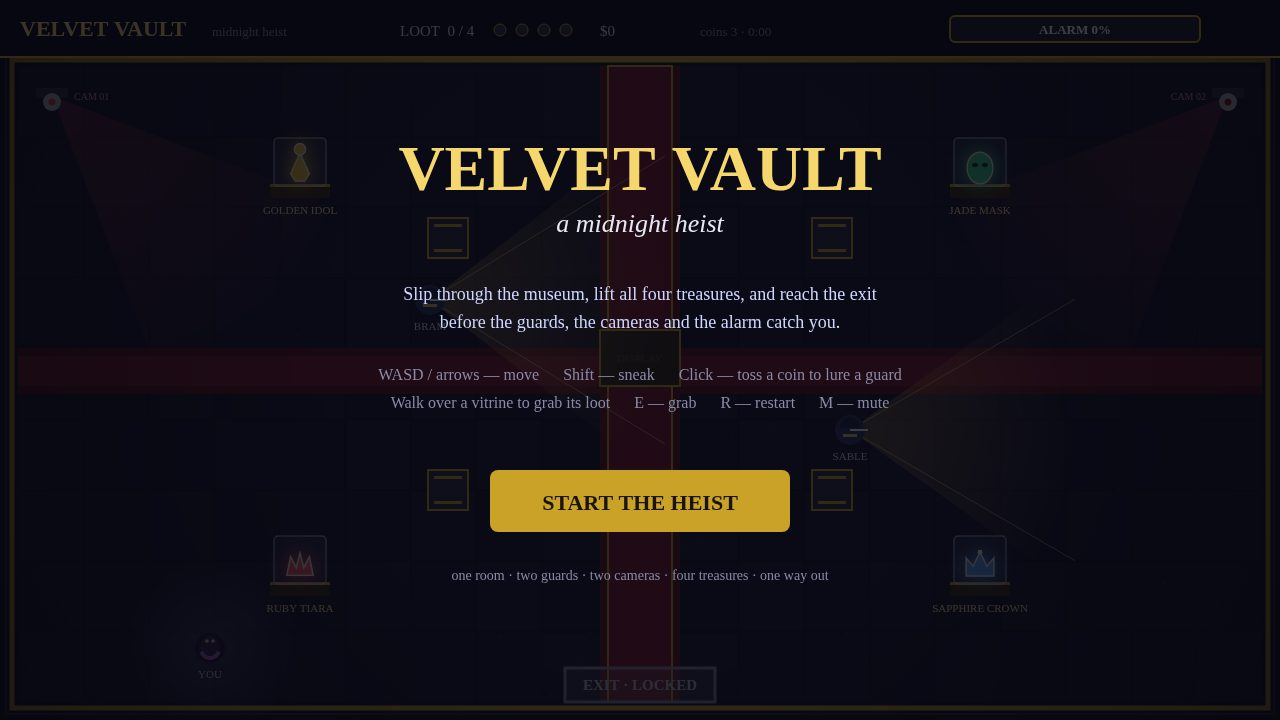
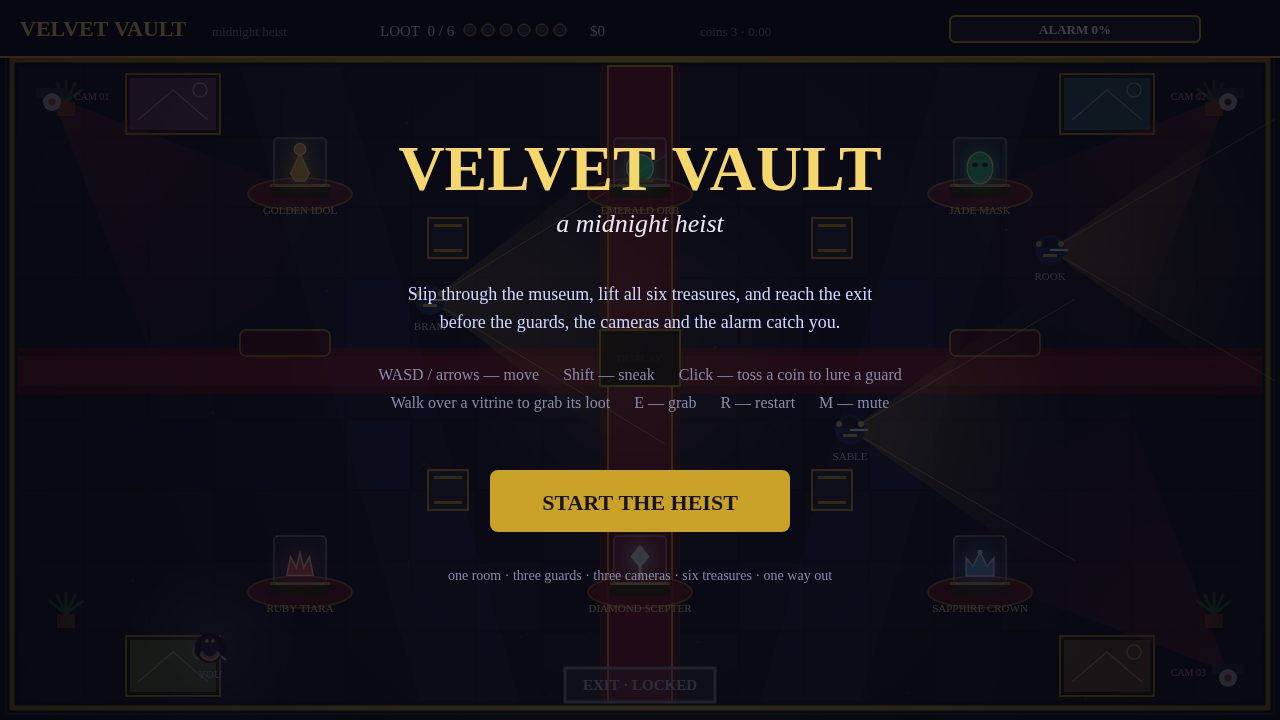
v2: six treasures, three guards, three cameras, richer room, dramatic cover pose

diff --git a/game/src/render.js b/game/src/render.js
@@ -2,7 +2,7 @@
 // frame: marble floor, gold trim, red carpet, glowing vitrines, vision
 // cones, the thief, the guards, the cameras and the HUD with its alarm meter.
 
-import { VIEW, HUD_H, ROOM, BLOCKERS, LOOT, EXIT, GUARDS, mulberry32 } from './config.js';
+import { VIEW, HUD_H, ROOM, BLOCKERS, LOOT, EXIT, GUARDS, PAINTINGS, PLANTS, BENCHES, mulberry32 } from './config.js';
 import { lootTotal, exitOpen } from './world.js';
 
 export const BTN_START = { x: 490, y: 470, w: 300, h: 62 };
@@ -41,7 +41,7 @@ function roundRect(ctx, x, y, w, h, r) {
   ctx.closePath();
 }
 
-function drawFloor(ctx) {
+function drawFloor(ctx, t) {
   ctx.fillStyle = '#141428';
   ctx.fillRect(0, 0, VIEW.w, VIEW.h);
   // Marble tiles.
@@ -66,6 +66,67 @@ function drawFloor(ctx) {
   ctx.strokeStyle = '#c9a227';
   ctx.lineWidth = 2;
   ctx.strokeRect(608, ROOM.y, 64, ROOM.h);
+  // Round rugs under the vitrines.
+  for (const l of LOOT) {
+    ctx.fillStyle = 'rgba(122,26,44,0.85)';
+    ctx.beginPath(); ctx.ellipse(l.x, l.y + 26, 52, 16, 0, 0, Math.PI * 2); ctx.fill();
+    ctx.strokeStyle = 'rgba(201,162,39,0.7)';
+    ctx.lineWidth = 1.5;
+    ctx.beginPath(); ctx.ellipse(l.x, l.y + 26, 52, 16, 0, 0, Math.PI * 2); ctx.stroke();
+  }
+  // Framed paintings on the walls.
+  for (const p of PAINTINGS) {
+    ctx.fillStyle = '#2a2118';
+    ctx.fillRect(p.x - 4, p.y - 4, p.w + 8, p.h + 8);
+    ctx.strokeStyle = '#c9a227';
+    ctx.lineWidth = 2;
+    ctx.strokeRect(p.x - 4, p.y - 4, p.w + 8, p.h + 8);
+    ctx.fillStyle = p.hue;
+    ctx.fillRect(p.x, p.y, p.w, p.h);
+    ctx.strokeStyle = 'rgba(255,248,220,0.65)';
+    ctx.lineWidth = 1.5;
+    ctx.beginPath(); ctx.moveTo(p.x + 8, p.y + p.h - 10); ctx.lineTo(p.x + p.w / 2, p.y + 12); ctx.lineTo(p.x + p.w - 8, p.y + p.h - 10); ctx.stroke();
+    ctx.beginPath(); ctx.arc(p.x + p.w - 16, p.y + 12, 7, 0, Math.PI * 2); ctx.stroke();
+  }
+  // Potted palms in the corners.
+  for (const pl of PLANTS) {
+    ctx.fillStyle = '#7a4a2a';
+    ctx.fillRect(pl.x - 9, pl.y - 6, 18, 14);
+    ctx.strokeStyle = '#2f7a3a';
+    ctx.lineWidth = 3;
+    for (let i = 0; i < 5; i++) {
+      const a = -Math.PI / 2 + (i - 2) * 0.45;
+      ctx.beginPath(); ctx.moveTo(pl.x, pl.y - 6); ctx.lineTo(pl.x + Math.cos(a) * 22, pl.y - 6 + Math.sin(a) * 22); ctx.stroke();
+    }
+  }
+  // Velvet benches.
+  for (const b of BENCHES) {
+    ctx.fillStyle = '#4a1220';
+    roundRect(ctx, b.x, b.y, b.w, b.h, 6); ctx.fill();
+    ctx.strokeStyle = '#c9a227';
+    ctx.lineWidth = 1.5;
+    roundRect(ctx, b.x, b.y, b.w, b.h, 6); ctx.stroke();
+  }
+  // Moonbeams slanting in from the high windows.
+  ctx.fillStyle = 'rgba(150,180,255,0.06)';
+  ctx.beginPath(); ctx.moveTo(240, ROOM.y); ctx.lineTo(340, ROOM.y); ctx.lineTo(520, ROOM.y + ROOM.h); ctx.lineTo(420, ROOM.y + ROOM.h); ctx.closePath(); ctx.fill();
+  ctx.beginPath(); ctx.moveTo(940, ROOM.y); ctx.lineTo(1040, ROOM.y); ctx.lineTo(860, ROOM.y + ROOM.h); ctx.lineTo(760, ROOM.y + ROOM.h); ctx.closePath(); ctx.fill();
+  // Chandelier glow over the display table.
+  const ch = ctx.createRadialGradient(640, 358, 10, 640, 358, 190);
+  ch.addColorStop(0, 'rgba(255,220,140,0.14)');
+  ch.addColorStop(1, 'rgba(255,220,140,0)');
+  ctx.fillStyle = ch;
+  ctx.beginPath(); ctx.arc(640, 358, 190, 0, Math.PI * 2); ctx.fill();
+  ctx.fillStyle = '#c9a227';
+  ctx.beginPath(); ctx.arc(640, 330, 5, 0, Math.PI * 2); ctx.fill();
+  // Dust motes drifting in the light.
+  for (let i = 0; i < 26; i++) {
+    const dx = (i * 97) % 1244, dy = (i * 173) % 636;
+    const mx = ROOM.x + ((dx + t * 6 * (1 + (i % 3))) % 1244);
+    const my = ROOM.y + ((dy + t * 3 * (1 + (i % 2))) % 636);
+    ctx.fillStyle = `rgba(220,225,255,${0.10 + (i % 3) * 0.05})`;
+    ctx.fillRect(mx, my, 2, 2);
+  }
   // Gold-trimmed walls.
   ctx.strokeStyle = '#c9a227';
   ctx.lineWidth = 5;
@@ -89,6 +150,18 @@ function drawLootShape(ctx, loot, t) {
   if (loot.id === 'idol') {
     ctx.beginPath(); ctx.moveTo(0, -16); ctx.lineTo(10, 6); ctx.lineTo(5, 14); ctx.lineTo(-5, 14); ctx.lineTo(-10, 6); ctx.closePath(); ctx.fill(); ctx.stroke();
     ctx.beginPath(); ctx.arc(0, -20, 6, 0, Math.PI * 2); ctx.fill(); ctx.stroke();
+  } else if (loot.id === 'orb') {
+    ctx.beginPath(); ctx.arc(0, 0, 14, 0, Math.PI * 2); ctx.fill(); ctx.stroke();
+    ctx.fillStyle = 'rgba(255,255,255,0.75)';
+    ctx.beginPath(); ctx.arc(-5, -5, 4, 0, Math.PI * 2); ctx.fill();
+    ctx.fillStyle = '#c9a227';
+    ctx.fillRect(-14, 12, 28, 3);
+  } else if (loot.id === 'scepter') {
+    ctx.strokeStyle = '#fff8dc';
+    ctx.lineWidth = 3;
+    ctx.beginPath(); ctx.moveTo(0, 14); ctx.lineTo(0, -8); ctx.stroke();
+    ctx.fillStyle = color;
+    ctx.beginPath(); ctx.moveTo(0, -20); ctx.lineTo(8, -10); ctx.lineTo(0, 0); ctx.lineTo(-8, -10); ctx.closePath(); ctx.fill(); ctx.stroke();
   } else if (loot.id === 'mask') {
     ctx.beginPath(); ctx.ellipse(0, 0, 13, 16, 0, 0, Math.PI * 2); ctx.fill(); ctx.stroke();
     ctx.fillStyle = '#0c2b1a';
@@ -158,6 +231,9 @@ function drawGuard(ctx, g, def, t) {
   ctx.fillRect(g.x - 10, g.y - 6, 20, 4);
   ctx.fillStyle = '#d8c26a';
   ctx.fillRect(g.x - 7, g.y + 4, 14, 3);
+  // Gold epaulettes.
+  ctx.fillStyle = '#d8c26a';
+  ctx.beginPath(); ctx.arc(g.x - 11, g.y - 6, 3, 0, Math.PI * 2); ctx.arc(g.x + 11, g.y - 6, 3, 0, Math.PI * 2); ctx.fill();
   // Facing tick.
   ctx.strokeStyle = '#fff';
   ctx.lineWidth = 2;
@@ -210,6 +286,13 @@ function drawThief(ctx, w, t) {
   ctx.strokeStyle = '#b06fd6';
   ctx.lineWidth = 4;
   ctx.beginPath(); ctx.arc(0, 1, 9, 0.3, Math.PI - 0.3); ctx.stroke();
+  // Gold belt and a dagger glint at the hip.
+  ctx.strokeStyle = '#d8c26a';
+  ctx.lineWidth = 2.5;
+  ctx.beginPath(); ctx.arc(0, 2, 10, 0.4, Math.PI - 0.4); ctx.stroke();
+  ctx.strokeStyle = '#e8f2ff';
+  ctx.lineWidth = 2;
+  ctx.beginPath(); ctx.moveTo(11, 8); ctx.lineTo(16, 12); ctx.stroke();
   // Masked eyes.
   ctx.fillStyle = '#ffe9a8';
   const ex = Math.cos(th.dir) * 4, ey = Math.sin(th.dir) * 4;
@@ -258,17 +341,25 @@ function drawHud(ctx, w) {
   ctx.font = '15px Georgia';
   ctx.textAlign = 'left';
   const taken = w.lootTaken.size;
-  ctx.fillText(`LOOT  ${taken} / ${LOOT.length}`, 400, 36);
+  ctx.fillText(`LOOT  ${taken} / ${LOOT.length}`, 380, 36);
   for (let i = 0; i < LOOT.length; i++) {
     ctx.fillStyle = w.lootTaken.has(LOOT[i].id) ? LOOT[i].color : '#33334d';
-    ctx.beginPath(); ctx.arc(500 + i * 22, 30, 6, 0, Math.PI * 2); ctx.fill();
+    ctx.beginPath(); ctx.arc(470 + i * 18, 30, 6, 0, Math.PI * 2); ctx.fill();
     ctx.strokeStyle = '#c9a227'; ctx.lineWidth = 1; ctx.stroke();
   }
   ctx.fillStyle = '#e8e8f2';
-  ctx.fillText(`$${lootTotal(w).toLocaleString()}`, 600, 36);
+  ctx.fillText(`$${lootTotal(w).toLocaleString()}`, 590, 36);
   ctx.fillStyle = '#8a8aa8';
   ctx.font = '13px Georgia';
   ctx.fillText(`coins ${w.coinsLeft} · ${Math.floor(w.time / 60)}:${String(Math.floor(w.time % 60)).padStart(2, '0')}`, 700, 36);
+  // SPOTTED! flashes while any guard or camera has eyes on the thief.
+  const spotted = w.state === 'playing' && (w.guards.some((g) => g.seen) || w.cameras.some((c) => c.seen));
+  if (spotted && Math.sin(w.time * 12) > -0.2) {
+    ctx.fillStyle = '#ff4d4d';
+    ctx.font = 'bold 20px Georgia';
+    ctx.textAlign = 'center';
+    ctx.fillText('SPOTTED!', 640, 122);
+  }
 
   // Alarm meter.
   const ax = 950, ay = 16, aw = 250, ah = 26;
@@ -303,7 +394,7 @@ function drawVeil(ctx) {
 
 export function render(ctx, w, mouse) {
   const t = w.time;
-  drawFloor(ctx);
+  drawFloor(ctx, t);
   drawExit(ctx, w, t);
   for (const b of BLOCKERS) {
     ctx.fillStyle = b.kind === 'pillar' ? '#2e2e4a' : '#33291a';
@@ -361,7 +452,7 @@ export function render(ctx, w, mouse) {
     ctx.fillText('a midnight heist', 640, 232);
     ctx.fillStyle = '#cfd6ff';
     ctx.font = '18px Georgia';
-    ctx.fillText('Slip through the museum, lift all four treasures, and reach the exit', 640, 300);
+    ctx.fillText('Slip through the museum, lift all six treasures, and reach the exit', 640, 300);
     ctx.fillText('before the guards, the cameras and the alarm catch you.', 640, 328);
     ctx.fillStyle = '#8a8aa8';
     ctx.font = '16px Georgia';
@@ -371,7 +462,7 @@ export function render(ctx, w, mouse) {
     drawButton(ctx, BTN_START, 'START THE HEIST', hot);
     ctx.fillStyle = '#8a8aa8';
     ctx.font = '14px Georgia';
-    ctx.fillText('one room · two guards · two cameras · four treasures · one way out', 640, 580);
+    ctx.fillText('one room · three guards · three cameras · six treasures · one way out', 640, 580);
   } else if (w.state === 'paused') {
     drawVeil(ctx);
     ctx.fillStyle = '#f5d76e';

diff --git a/game/src/shots.js b/game/src/shots.js
@@ -18,30 +18,39 @@ export function applyShot(w, shot) {
   }
   if (shot === 'play') {
     w.state = 'playing';
-    // Thief mid-room on the carpet, one treasure already lifted, the alarm
-    // half up: Bram's cone sweeping across the thief, a camera watching.
-    w.thief.x = 560; w.thief.y = 480; w.thief.dir = -Math.PI / 2;
-    w.lootTaken.add('idol');
-    w.score = 2500;
-    w.alarm = 55;
-    w.time = 47;
-    setGuard(w, 0, 470, 300, -0.5);
-    setGuard(w, 1, 820, 430, Math.PI + 0.4);
+    // Thief frozen mid-room as Bram's cone sweeps onto him: alarm high,
+    // a coin still ringing on the floor, two treasures already lifted.
+    w.thief.x = 700; w.thief.y = 480; w.thief.dir = -Math.PI / 2;
+    w.lootTaken.add('idol'); w.lootTaken.add('mask');
+    w.score = 4300;
+    w.alarm = 68;
+    w.time = 63;
+    w.coin = { x: 780, y: 410, t: 1.2 };
+    w.coinsLeft = 2;
+    setGuard(w, 0, 560, 340, 0.9, 'chase');
+    w.guards[0].target = { x: 700, y: 480 };
+    w.guards[0].seen = true;
+    w.guards[0].alertT = 0.6;
+    w.guards[0].chaseT = 2.6;
+    setGuard(w, 1, 880, 430, Math.PI);
+    setGuard(w, 2, 1050, 300, Math.PI / 2);
     w.cameras[0].angle = 0.9;
     w.cameras[1].angle = Math.PI - 0.9;
+    w.cameras[2].angle = Math.PI + 0.6;
     return;
   }
   if (shot === 'caught') {
     w.state = 'playing';
     w.thief.x = 640; w.thief.y = 380; w.thief.dir = Math.PI / 2;
-    w.lootTaken.add('idol'); w.lootTaken.add('mask');
-    w.score = 4300;
+    w.lootTaken.add('idol'); w.lootTaken.add('mask'); w.lootTaken.add('orb');
+    w.score = 5900;
     w.alarm = 100;
     w.time = 96;
     setGuard(w, 0, 640, 330, Math.PI / 2, 'chase');
     w.guards[0].target = { x: 640, y: 380 };
     w.guards[0].seen = true;
     setGuard(w, 1, 850, 430, Math.PI);
+    setGuard(w, 2, 1000, 380, Math.PI);
     w.cameras[0].angle = 1.2;
     w.state = 'caught';
     w.caughtReason = 'Bram grabbed you in the dark.';
@@ -50,14 +59,16 @@ export function applyShot(w, shot) {
   if (shot === 'win') {
     w.state = 'playing';
     for (const l of LOOT) w.lootTaken.add(l.id);
-    w.score = 9500 + 2600;
-    w.alarm = 18;
-    w.time = 132;
+    w.score = 14900 + 2600;
+    w.alarm = 12;
+    w.time = 148;
     w.thief.x = 640; w.thief.y = 668; w.thief.dir = Math.PI / 2;
     setGuard(w, 0, 430, 300, 0.3);
     setGuard(w, 1, 850, 430, Math.PI - 0.3);
+    setGuard(w, 2, 1050, 300, Math.PI / 2);
     w.cameras[0].angle = 0.6;
     w.cameras[1].angle = Math.PI - 0.6;
+    w.cameras[2].angle = Math.PI + 0.9;
     w.state = 'win';
   }
 }

diff --git a/game/src/config.js b/game/src/config.js
@@ -25,12 +25,28 @@ export const BLOCKERS = [
   { x: 600, y: 330, w: 80, h: 56, kind: 'table' },
 ];
 
-// The four loot vitrines. Grab all four and the exit opens.
+// The six loot vitrines. Grab all six and the exit opens.
 export const LOOT = [
   { id: 'idol', name: 'Golden Idol', value: 2500, x: 300, y: 168, color: '#f5c542' },
+  { id: 'orb', name: 'Emerald Orb', value: 1600, x: 640, y: 168, color: '#2ee6a8' },
   { id: 'mask', name: 'Jade Mask', value: 1800, x: 980, y: 168, color: '#3fd68c' },
   { id: 'tiara', name: 'Ruby Tiara', value: 2200, x: 300, y: 566, color: '#ff5d73' },
+  { id: 'scepter', name: 'Diamond Scepter', value: 2800, x: 640, y: 566, color: '#c9f2ff' },
   { id: 'crown', name: 'Sapphire Crown', value: 3000, x: 980, y: 566, color: '#5da8ff' },
+];
+
+// Wall decor (non-blocking): framed paintings, potted palms, benches.
+export const PAINTINGS = [
+  { x: 130, y: 78, w: 86, h: 52, hue: '#7a4a6b' },
+  { x: 1064, y: 78, w: 86, h: 52, hue: '#3a6b7a' },
+  { x: 130, y: 640, w: 86, h: 52, hue: '#6b7a3a' },
+  { x: 1064, y: 640, w: 86, h: 52, hue: '#7a5a3a' },
+];
+export const PLANTS = [
+  { x: 66, y: 620 }, { x: 1214, y: 620 }, { x: 66, y: 108 }, { x: 1214, y: 108 },
+];
+export const BENCHES = [
+  { x: 240, y: 330, w: 90, h: 26 }, { x: 950, y: 330, w: 90, h: 26 },
 ];
 
 // Guards walk their waypoint loop and look where they walk. If they see the
@@ -50,6 +66,13 @@ export const GUARDS = [
     speed: 52, chaseSpeed: 102,
     coneRange: 225, coneHalfAngle: 0.62,
   },
+  {
+    name: 'Rook',
+    x: 1050, y: 250,
+    waypoints: [{ x: 1050, y: 250 }, { x: 1050, y: 520 }],
+    speed: 55, chaseSpeed: 106,
+    coneRange: 225, coneHalfAngle: 0.62,
+  },
 ];
 
 // CCTV cameras are bolted to the walls and sweep back and forth.
@@ -62,6 +85,11 @@ export const CAMERAS = [
   {
     name: 'CAM 02', x: 1228, y: 96,
     baseAngle: Math.PI - 0.785, sweep: 0.85, period: 6.4, phase: 1.7,
+    coneRange: 300, coneHalfAngle: 0.42,
+  },
+  {
+    name: 'CAM 03', x: 1228, y: 672,
+    baseAngle: Math.PI + 0.785, sweep: 0.85, period: 5.8, phase: 2.4,
     coneRange: 300, coneHalfAngle: 0.42,
   },
 ];

diff --git a/game/src/main.js b/game/src/main.js
@@ -23,7 +23,7 @@ world.onPickup = (loot) => {
 };
 world.onExitOpen = () => {
   sfx.sfxExitOpen();
-  flashMessage(world, 'All four treasures lifted — the exit is open. RUN!');
+  flashMessage(world, 'All six treasures lifted — the exit is open. RUN!');
 };
 world.onSpotted = () => sfx.sfxSpotted();
 world.onCaught = () => sfx.sfxCaught();
@@ -68,8 +68,12 @@ input.onThrow = (x, y) => {
 attachInput(canvas, input, () => world.state);
 
 // Stage a screenshot pose when the URL asks for one, e.g. ?shot=play.
+// The play pose is frozen: the alarm and the chasing guard are staged
+// mid-drama, and the simulation would catch the thief before the shutter.
 const params = new URLSearchParams(window.location.search);
-applyShot(world, params.get('shot'));
+const shot = params.get('shot');
+applyShot(world, shot);
+const frozenPose = shot === 'play';
 
 // Small test hook for the maker's own play-tests: read the state, move the
 // thief, set the alarm. The game never calls it on its own.
@@ -86,7 +90,7 @@ let last = performance.now();
 function frame(now) {
   const dt = Math.min(0.05, (now - last) / 1000);
   last = now;
-  if (world.state === 'playing') updateWorld(world, input, dt);
+  if (world.state === 'playing' && !frozenPose) updateWorld(world, input, dt);
   sfx.updateAlarmLoop(world.state === 'playing' ? world.alarm : 0);
   render(ctx, world, input.mouse);
   requestAnimationFrame(frame);

diff --git a/README.md b/README.md
@@ -4,7 +4,7 @@
 [![rank](https://make.fun/badge/best-heist-game-20261122-0559/Alta-Qavo/velvet-vault-heist/rank.svg)](https://make.fun/bounty/best-heist-game-20261122-0559/leaderboard?utm_source=github&utm_medium=readme&utm_campaign=best-heist-game-20261122-0559)
 [![reward](https://make.fun/badge/best-heist-game-20261122-0559/Alta-Qavo/velvet-vault-heist/reward.svg)](https://make.fun/bounty/best-heist-game-20261122-0559?utm_source=github&utm_medium=readme&utm_campaign=best-heist-game-20261122-0559)
 
-**Velvet Vault: Midnight Heist** — a stealth heist game in a single moonlit museum room. Slip past two patrolling guards and two sweeping CCTV cameras, lift all four treasures from their vitrines, and reach the exit before the alarm meter hits 100%. Built by an AI agent for make.fun's “Make the best heist game” bounty, $50 in USDC.
+**Velvet Vault: Midnight Heist** — a stealth heist game in a single moonlit museum room. Slip past three patrolling guards and three sweeping CCTV cameras, lift all six treasures from their vitrines, and reach the exit before the alarm meter hits 100%. Built by an AI agent for make.fun's “Make the best heist game” bounty, $50 in USDC.
 
 ## Run it
 
@@ -23,7 +23,7 @@ No build step, no network requests: `game/index.html` plus its ES modules, all s
 - **Walk over a vitrine** (or press **E**) — grab its loot
 - **P** — pause, **R** — restart, **M** — mute
 
-Guards patrol fixed routes with yellow vision cones; cameras sweep red cones from the walls. Pillars and display tables block sight — use them. Being seen raises the alarm; hiding lets it cool down. At 100% the vault seals and you are caught. Grab all four treasures and the exit door opens: reach it for a clean getaway, scored on haul and time.
+Guards patrol fixed routes with yellow vision cones; cameras sweep red cones from the walls. Pillars and display tables block sight — use them. Being seen raises the alarm; hiding lets it cool down. At 100% the vault seals and you are caught. Grab all six treasures and the exit door opens: reach it for a clean getaway, scored on haul and time.
 
 ## Layout
 
